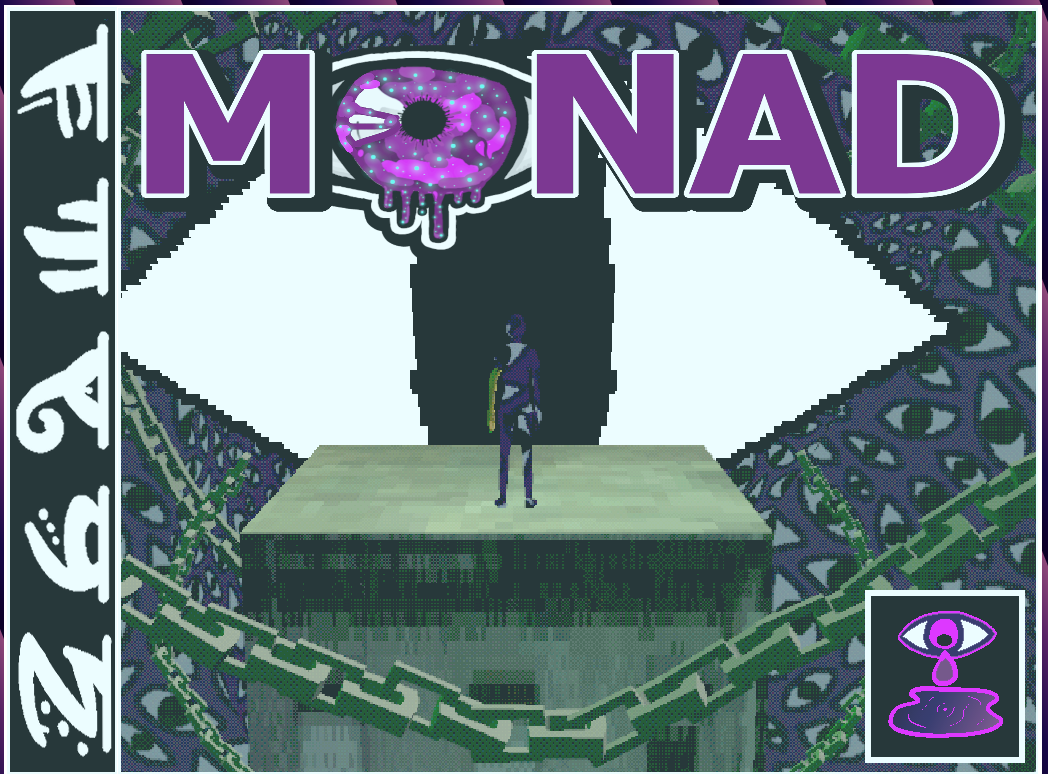
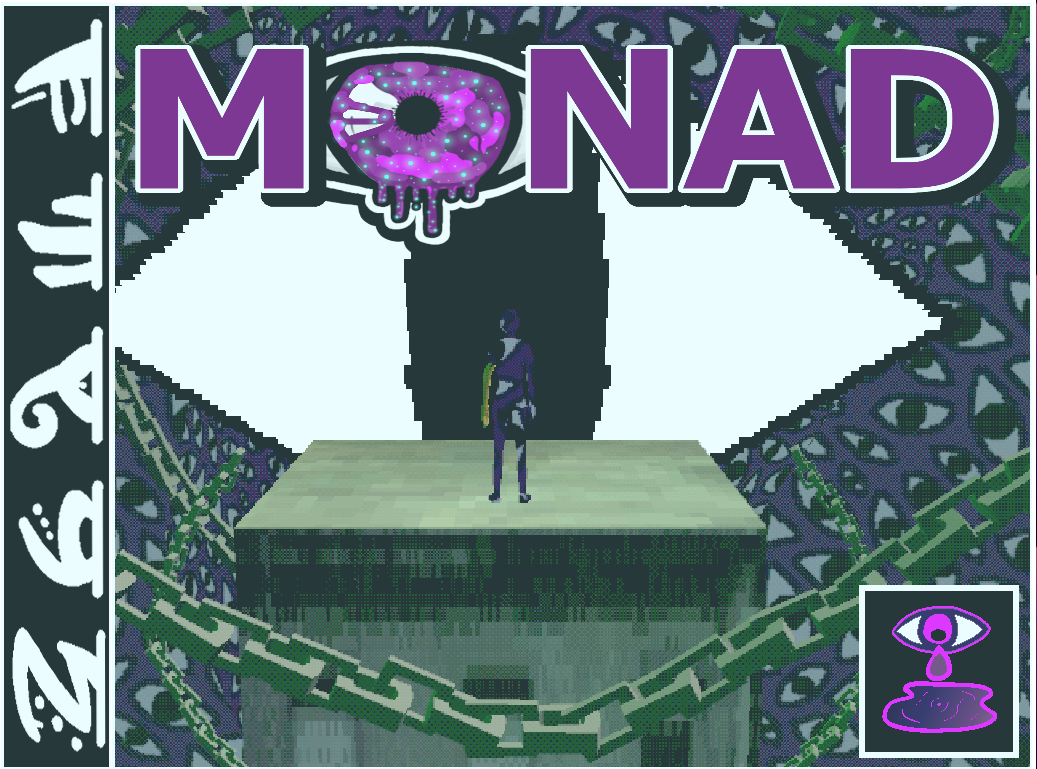
work page organization insertions

diff --git a/src/works.html b/src/works.html
@@ -31,22 +31,30 @@
             <a href="contact.html" id="menu-contact">CONTACT</a>
         </div>
         <div id="worksBody">
-            <span id="projectTitle"><a href="monad.html" id="monadredir">Monad</a></span>
-            <p id="projectText">
-                PSX visually inspired 3D adventure platformer
-                developed in Unity. Constructed within weekly sprints over
-                the course of 3 months within a team of 9.
-            </p>
-            <span id="projectTitle"><a href="p4.html" id="p4redir">Puppy Pets Puzzle Playground</a></span>
-            <p id="projectText">
-                Connect-3 Matching Game made in Unity. Developed
-                in 10 weekly sprints within a team of 3.
-            </p>
-            <span id="projectTitle"><a href="ibunn.html" id="ibunnredir">Ibunn</a></span>
-            <p id="projectText">
-                First person dungeon crawler prototype
-                made in Unity. Developed solo in 10 weekly sprints.
-            </p>
+            <div class="monad">
+                <span id="projectTitle"><a href="monad.html" id="monadredir">Monad</a></span>
+                <img src="img/proj_img/monad_cover.png" alt="monadcover" id="monadcover">
+                <p id="projectText">
+                    PSX visually inspired 3D adventure platformer
+                    developed in Unity. Constructed within weekly sprints over
+                    the course of 3 months within a team of 9.
+                </p>
+            </div>
+            <div class="p4">
+                <span id="projectTitle"><a href="p4.html" id="p4redir">Puppy Pets Puzzle Playground</a></span>
+                <p id="projectText">
+                    Connect-3 Matching Game made in Unity. Developed
+                    in 10 weekly sprints within a team of 3.
+                </p>
+            </div>
+            <div class="ibunn">
+                <span id="projectTitle"><a href="ibunn.html" id="ibunnredir">Ibunn</a></span>
+                <p id="projectText">
+                    First person dungeon crawler prototype
+                    made in Unity. Developed solo in 10 weekly sprints.
+                </p>
+
+            </div>
         </div>
     </div>
 </body>

diff --git a/src/home.css b/src/home.css
@@ -201,6 +201,11 @@ p {
     color: rgb(81, 81, 82);
 }
 
+#monadcover {
+    width: 400px;
+    height: 300px;
+}
+
 .resumeBody {
     display: flex;
     position: relative;
